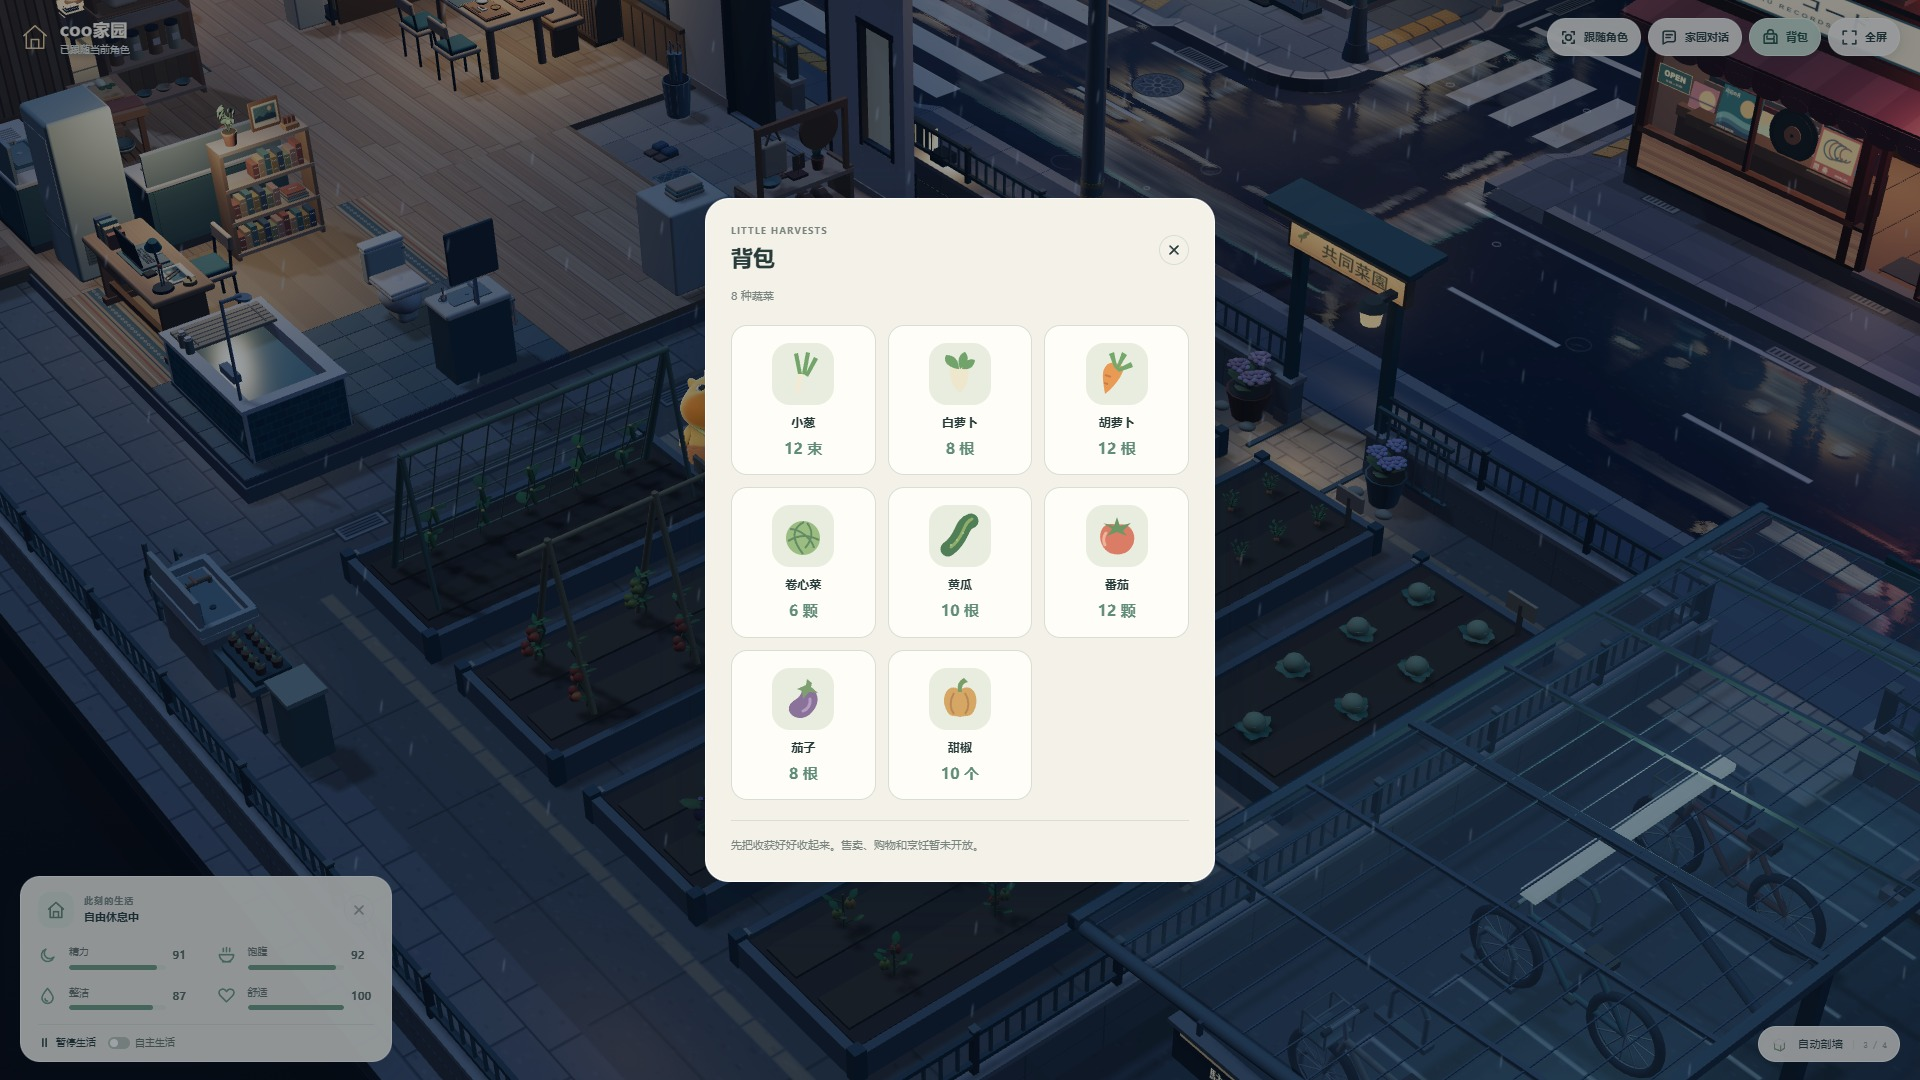
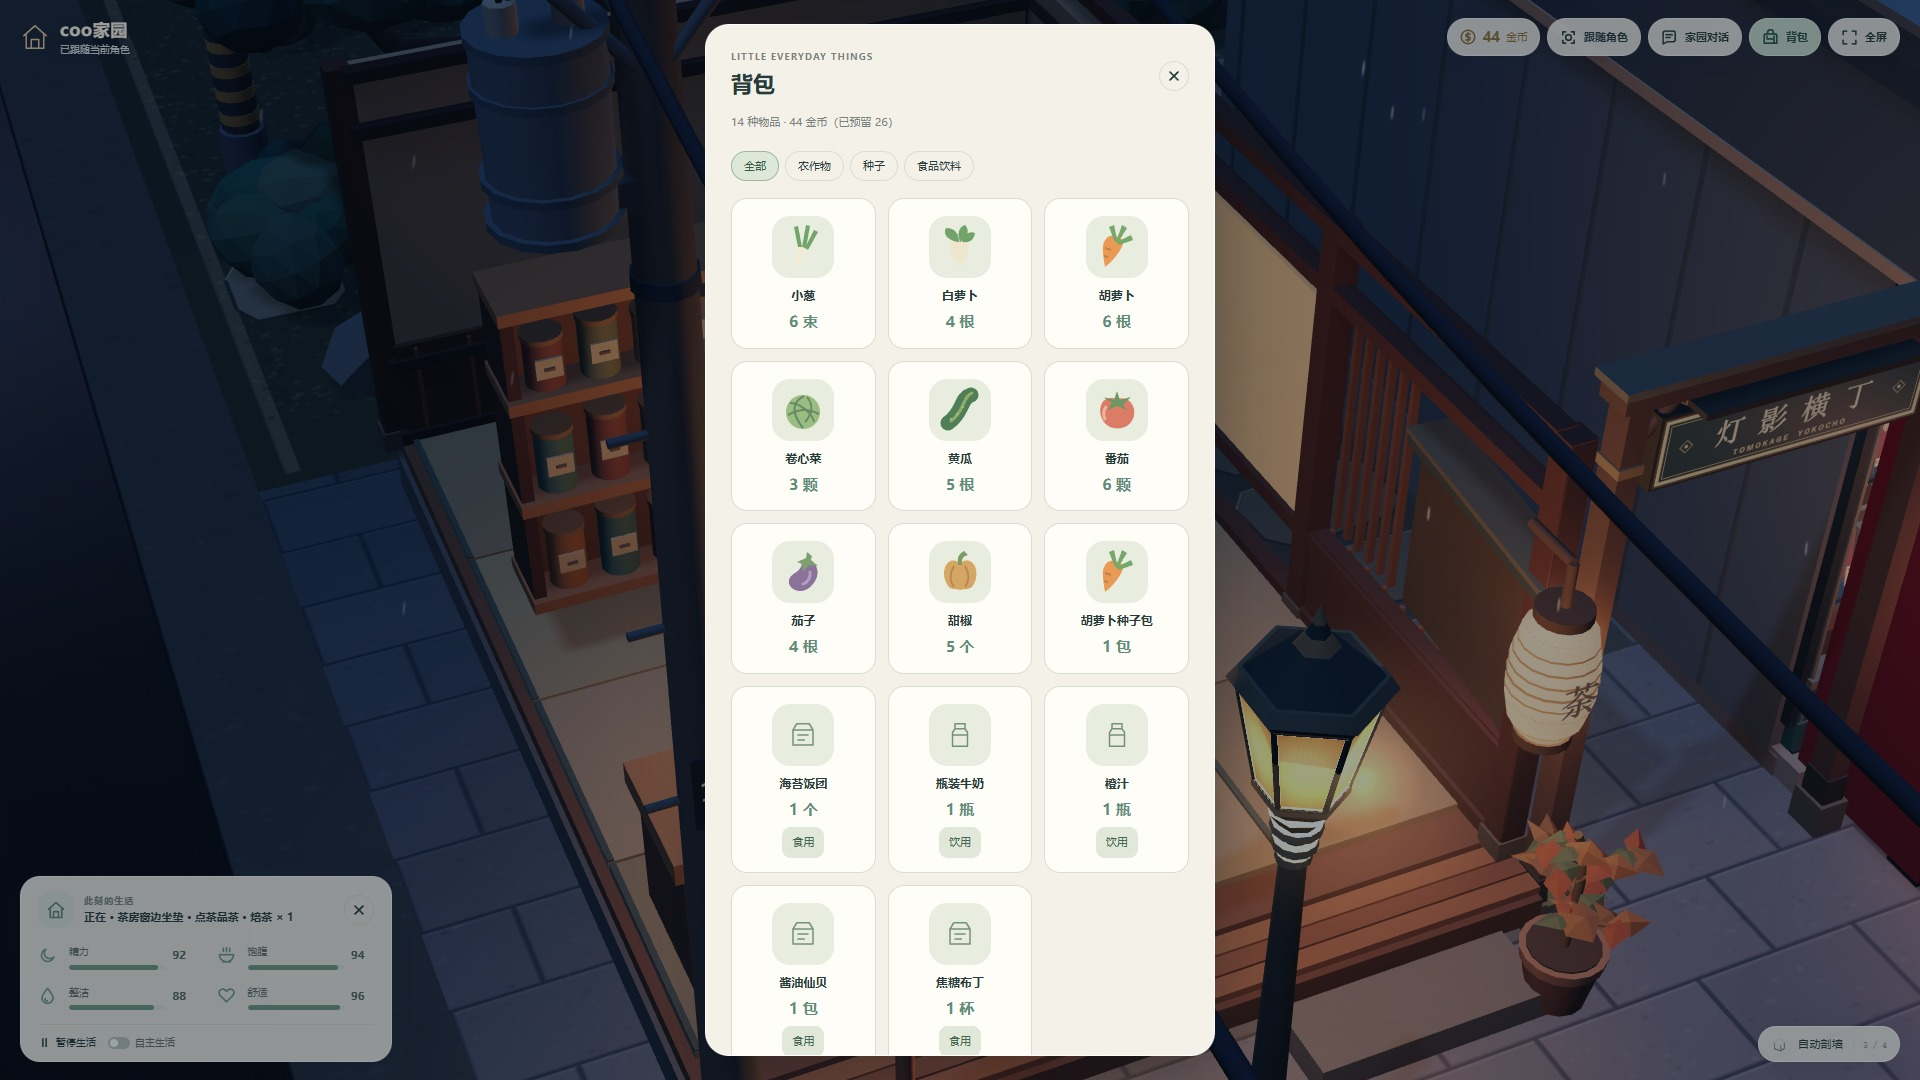
Document and verify Coo Home shopping release

diff --git a/README.en.md b/README.en.md
@@ -9,11 +9,11 @@ One repository for independently installable Coopanion World extensions.
 | [Wardrobe Studio](packages/cortico-world-wardrobe-studio) | `cortico-world-wardrobe-studio` | 0.6.2 |
 | [Capture Guard](packages/cortico-world-capture-guard) — personal use only | `cortico-world-capture-guard` | 1.1.1 |
 | [Lulu](packages/cortico-world-lulu) | `cortico-world-lulu` | 0.1.6 |
-| [coo Home](packages/cortico-world-coo-home) | `cortico-world-coo-home` | 0.4.0 |
+| [coo Home](packages/cortico-world-coo-home) | `cortico-world-coo-home` | 0.5.0 |
 
 Each plugin keeps its own version, installation, configuration and license. Installing one does not install the others. Source versions are not claims that the same versions have been published to npm or the extension market.
 
-coo Home uses the approved neighborhood in [`scenes/amane-mart`](scenes/amane-mart). Its first import preserves all nine published scene commits without rewriting them; see the [migration record](docs/amane-scene-migration.md). The first public release includes independent home life, furniture interactions, crop selection, a harvest backpack and home conversation; see the [illustrated introduction](packages/cortico-world-coo-home). Installed character metadata and media remain private runtime data and are not included in this package.
+coo Home uses the approved neighborhood in [`scenes/amane-mart`](scenes/amane-mart). Its first import preserves all nine published scene commits without rewriting them; see the [migration record](docs/amane-scene-migration.md). The current release includes independent home life, furniture interactions, gardening, coins and inventory, real convenience-store shopping and crop sales, teahouse visits and home conversation; see the [illustrated introduction](packages/cortico-world-coo-home). Installed character metadata and media remain private runtime data and are not included in this package.
 
 Capture Guard is blocked by the market for taking over the pet host at runtime. It is retained for personal local maintenance only, with no further public releases, market synchronization or appeal. Its package is private and shared release packaging skips it. The native capture-exclusion capability or supported interface request is tracked in [Coopanion #723](https://github.com/Pal-AI-Lab/Coopanion/issues/723).
 

diff --git a/docs/coo-home-life.md b/docs/coo-home-life.md
@@ -241,4 +241,4 @@ Responses 兼容修复分为两部分：`alpha.5` 不再将本地对话收据编
 - 格式 4 已记录产量仅迁入库存一次，首次金币仅发放一次，旧队列播种保留一次性兼容；未来格式继续阻止覆盖。
 - 47 个交互点、109 个动作入口、104 个导航节点与 502 条边；便利店与两茶座路线通过现有斑马线、入口和真实地面高度，四种墙面模式保留相机。
 - 官方 OpenAI Responses 兼容适配器在本机隔离端点验证严格可空参数、买牛奶后去品茶、重复工具调用和历史恢复；未调用用户的付费模型服务。
-- 正式 Coopanion 0.2.20 Core 与 console 的隔离运行通过原生配置、五组模板变量、角色沙箱、对话、隐藏静音和保存恢复。
+- 正式 Coopanion 0.2.21 Core 与 console 的隔离运行通过原生配置、五组模板变量、角色沙箱、对话、隐藏静音和保存恢复。

diff --git a/packages/cortico-world-coo-home/README.md b/packages/cortico-world-coo-home/README.md
@@ -24,7 +24,7 @@
 
 ## 安装与开始
 
-适用于 **Coopanion World API 6**，本版在 **Coopanion 0.2.20 / Windows** 的隔离部署中验证。其他平台的兼容性尚未实测。桌宠 World 需启用，并使用默认或固定本机服务端口。
+适用于 **Coopanion World API 6**，本版在 **Coopanion 0.2.21 / Windows** 的隔离部署中验证。其他平台的兼容性尚未实测。桌宠 World 需启用，并使用默认或固定本机服务端口。
 
 1. 打开 Coopanion 的 **World 扩展**，搜索 `coo家园` 或手动填写 `cortico-world-coo-home@0.5.0` 安装。
 2. 按宿主提示重启并启用 **coo家园**。选择“家园”进入街区；首次点击页面后可播放角色声音。
